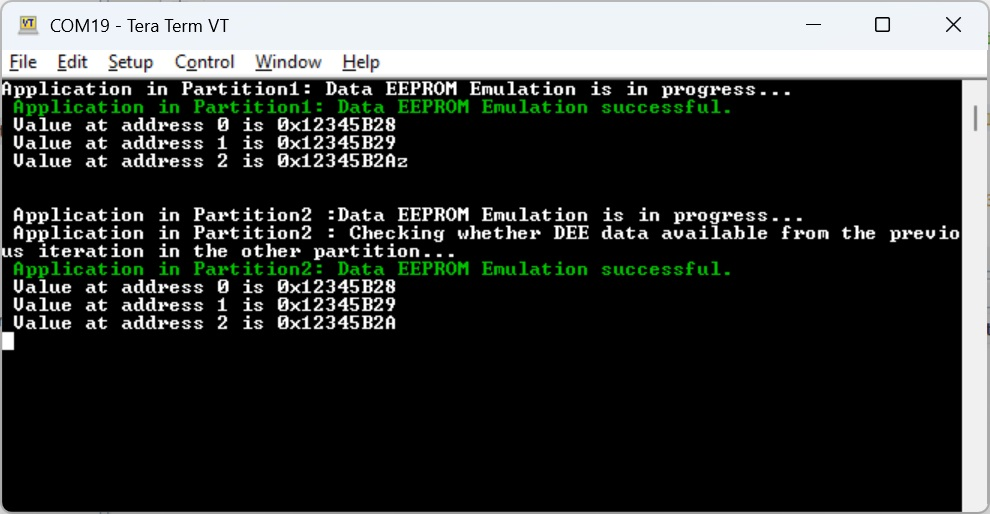
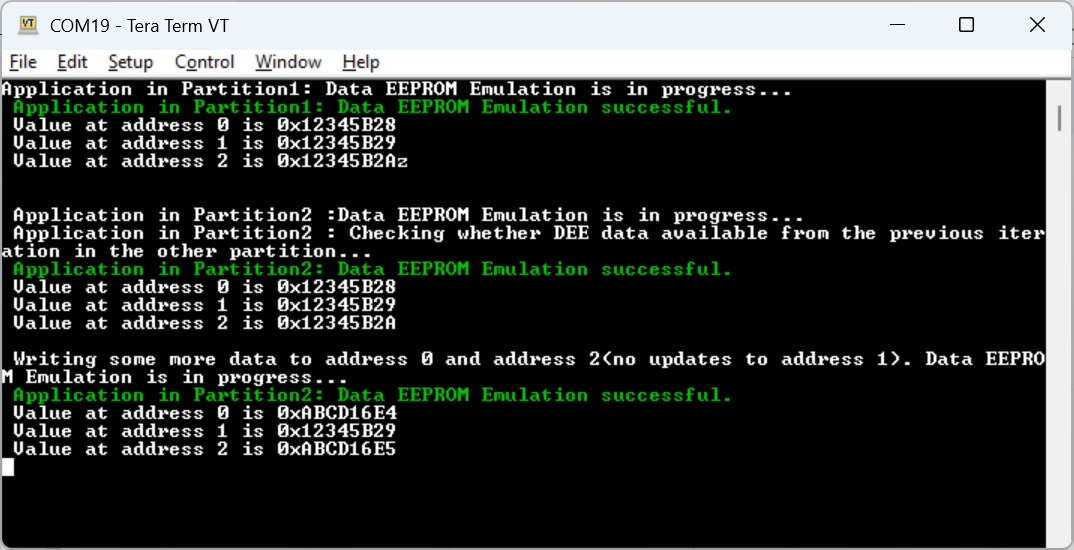
Updated the application code

diff --git a/dspic33a-curiosity-dual-panel-dee-demo/dee_dual_panel_partition2.X/main.c b/dspic33a-curiosity-dual-panel-dee-demo/dee_dual_panel_partition2.X/main.c
@@ -30,7 +30,8 @@
 #define RED     "\033[0;31m"                            // Selects red font face
 #define GREEN   "\033[0;32m"                            // Selects green font face
 #define LOOPCOUNT 1200
-#define DATA 0x12345678
+#define DATA 0xABCD1234
+#define PREVIOUS_DATA 0x12345678
 
 void __attribute__((address(__PROGRAM_BASE), keep, naked, noinline)) executionSwitch(void) {
     asm volatile("\n    mov.sl      #%0, w1"            
@@ -47,13 +48,13 @@ int main(void) {
     uint32_t valueAtAddr0 = 0;
     uint32_t valueAtAddr1 = 0;
     uint32_t valueAtAddr2 = 0;
-    uint32_t expectedValueAtAddr0 = DATA+LOOPCOUNT;
-    uint32_t expectedValueAtAddr1 = DATA+LOOPCOUNT+1;
-    uint32_t expectedValueAtAddr2 = DATA+LOOPCOUNT+2;
+    uint32_t expectedValueAtAddr0 = PREVIOUS_DATA+LOOPCOUNT;
+    uint32_t expectedValueAtAddr1 = PREVIOUS_DATA+LOOPCOUNT+1;
+    uint32_t expectedValueAtAddr2 = PREVIOUS_DATA+LOOPCOUNT+2;
 
     SYSTEM_Initialize();
     printf(NORMAL"\r\n\r\n\r\n Application in Partition2 :Data EEPROM Emulation is in progress...\r\n");
-    //DEE_Init();
+    DEE_Init();
             
     printf(NORMAL" Application in Partition2 : Checking whether DEE data available from the previous iteration in the other partition...\r\n");            
 
@@ -68,6 +69,29 @@ int main(void) {
         printf(RED" Application in Partition2: Data EEPROM Emulation failed.\r\n");
         printf(NORMAL" Value at address 0 is 0x%X \r\n Value at address 1 is 0x%X \r\n Value at address 2 is 0x%X \r\n", valueAtAddr0, valueAtAddr1, valueAtAddr2);
     }
+    
+    expectedValueAtAddr0 = DATA+LOOPCOUNT;
+    expectedValueAtAddr2 = DATA+LOOPCOUNT+1;
+    
+    printf(NORMAL"\r\n Writing some more data to address 0 and address 2(no updates to address 1). Data EEPROM Emulation is in progress...\r\n");
+    
+    for (i = 0; i < LOOPCOUNT; i++) {
+        DEE_Write(addr0, DATA + i + 1);
+        DEE_Write(addr2, DATA + i + 2);
+    }
+    
+    DEE_Read(addr0, &valueAtAddr0);
+    DEE_Read(addr1, &valueAtAddr1);
+    DEE_Read(addr2, &valueAtAddr2);
+    
+    if (valueAtAddr0 == expectedValueAtAddr0 && valueAtAddr1 == expectedValueAtAddr1 && valueAtAddr2 == expectedValueAtAddr2) {
+        printf(GREEN" Application in Partition2: Data EEPROM Emulation successful.\r\n");
+        printf(NORMAL" Value at address 0 is 0x%X \r\n Value at address 1 is 0x%X \r\n Value at address 2 is 0x%X \r\n", valueAtAddr0, valueAtAddr1, valueAtAddr2);
+    } else {
+        printf(RED" Application in Partition2: Data EEPROM Emulation failed.\r\n");
+        printf(NORMAL" Value at address 0 is 0x%X \r\n Value at address 1 is 0x%X \r\n Value at address 2 is 0x%X \r\n", valueAtAddr0, valueAtAddr1, valueAtAddr2);
+    }
+    
     while(1);
     return 0;
 
